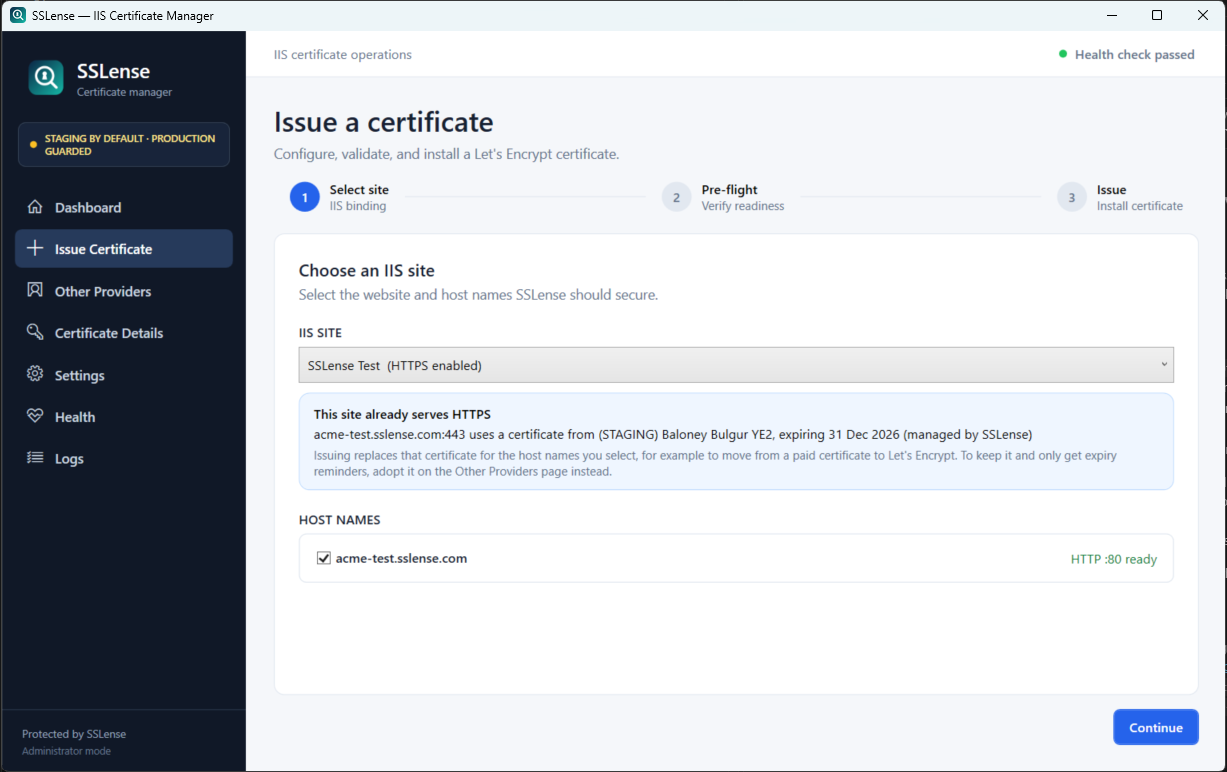
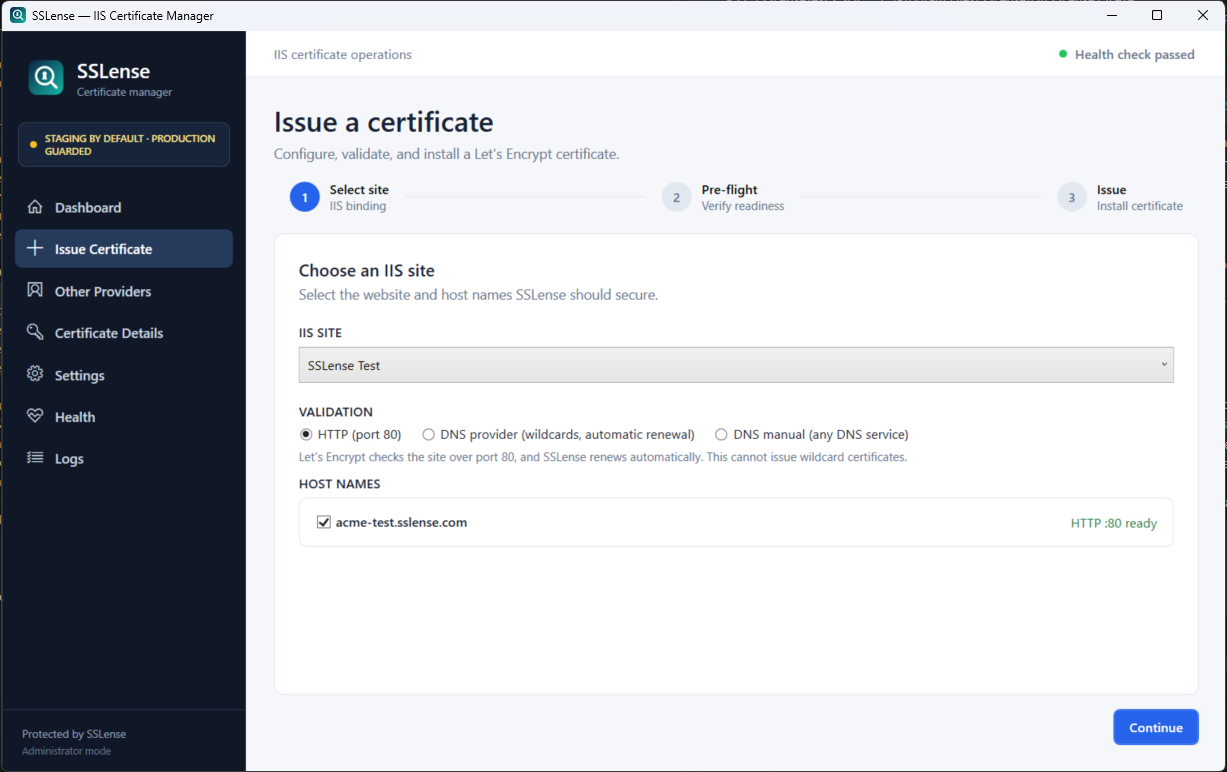
Update the Issue Certificate screenshot and record release tests
The wizard now offers a validation choice. The design records the upgrade
from 0.9.11, the HTTP-01 renewal on 0.13, and the production wildcard, and
what has not been tested yet.

diff --git a/docs/design/dns-validation.md b/docs/design/dns-validation.md
@@ -212,7 +212,7 @@ Must hold before merge:
 | 1 | This design. **Done.** | Docs |
 | 2 | Core: data model and migrations, DNS challenges, Cloudflare and manual methods, CNAME following, propagation check, token storage, journal and recovery; `dns` commands and `issue --validation`. **Done.** Tested November 3, 2026 on Let's Encrypt staging with the real Cloudflare API: `dns add`, `dns test`, `issue --validation dns` and a forced `renew` from the CLI. The renewal reused the valid authorization, so it published no DNS records. | CLI, staging |
 | 3 | Wildcards: `--names`, CAA checks, renewal, readiness and health checks, reminders for manual certificates, one-site rule, hand-sharing detection, diagnostics. **Done.** Tested November 3, 2026 on Let's Encrypt staging with the real Cloudflare API: a wildcard with its base name, which published two values at one record name, then a forced `renew` from the CLI. The renewal reused the valid authorizations, so it published no DNS records. | CLI |
-| 4 | GUI, README, website, roadmap; manual acceptance; release as 0.13. **GUI done.** The maintainer tried it on November 3, 2026 on Let's Encrypt staging: a wildcard through a provider, the manual method, and a renewal by hand. **Staging tests passed** the same day from the CLI, with the real Cloudflare API: CNAME delegation to a separate zone, removing the replaced certificate, replacing a token, a renewal with new DNS validation under a new ACME account, cleanup after the process was killed during validation, and the service starting and running its check. A renewal started by the service itself has not run yet, because no certificate was due. Docs are done. The upgrade test and release are still to do. | Both |
+| 4 | GUI, README, website, roadmap; manual acceptance; release as 0.13. **GUI done.** The maintainer tried it on November 3, 2026 on Let's Encrypt staging: a wildcard through a provider, the manual method, and a renewal by hand. **Staging tests passed** the same day from the CLI, with the real Cloudflare API: CNAME delegation to a separate zone, removing the replaced certificate, replacing a token, a renewal with new DNS validation under a new ACME account, cleanup after the process was killed during validation, and the service starting and running its check. A renewal started by the service itself has not run yet, because no certificate was due. Docs are done. The MSI upgraded a 0.9.11 installation with its data, an HTTP-01 renewal worked on 0.13, and the maintainer issued a production wildcard through a provider. The upgrade from 0.12.1 on a real server, and a production renewal, have not been tested. | Both |
 | 5 | Sharing one certificate across several sites, after its design section; release as 0.14 | Both |
 | 6 | A script method, after its design section: the service runs as SYSTEM, so the design must cover who can configure a script and how the script file is protected | Both |
 | 7 | Built-in providers, one at a time: Amazon Route 53, Azure DNS, and GoDaddy first, then whatever users request most | Both |
